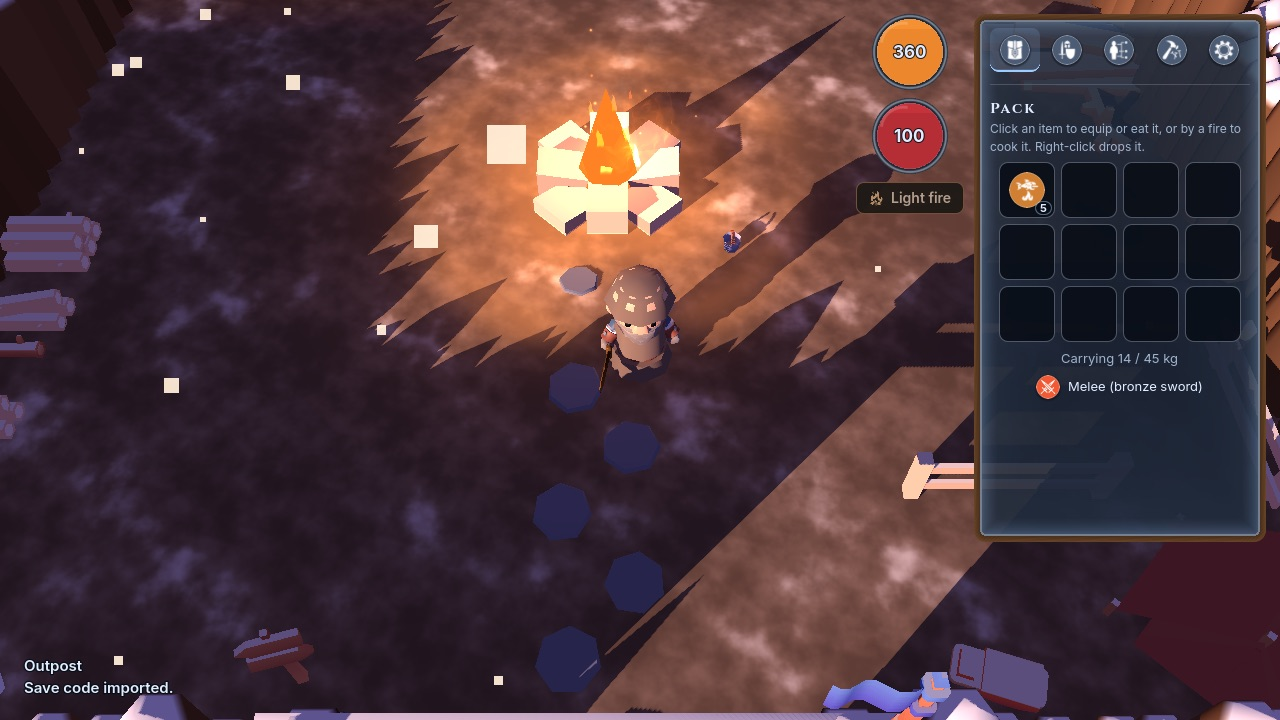
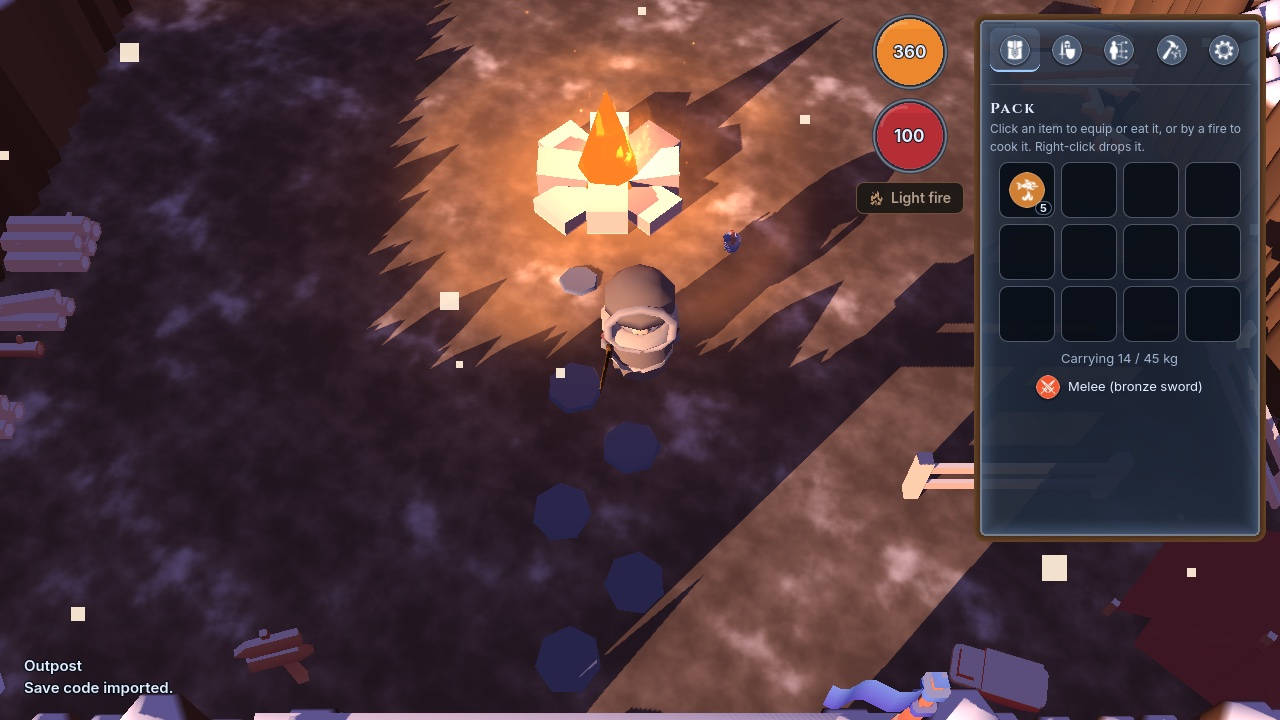
feat: fur looks like fur on the character (#143) (#154)
* feat: fur pieces draw a hood, a coat with a ruff and banded leggings

* feat: every armour look is drawn in the shader warm-up

* docs: the fur shapes on the character

* chore: fur set and mixed fur and metal gear shots

diff --git a/docs/simulation.md b/docs/simulation.md
@@ -390,7 +390,7 @@ The presentation draws the same solids and objects (as props, `scenes/props.gd`)
 - `returned`, `deposited_haul`, `levelled`, `crafted`, `built`, `ring_gate_opened`, `ring_two_reached`, `waystone_attuned` and `travelled` become a banner across the top (a `returned` banner reads "Home safe." plus what the pack holds, and adds "You can now build: ..." only when its `newly_affordable` list is not empty, and a `deposited_haul` banner names what was stored plus what stayed when the stash filled, `tests/test_bank_line.gd`); the rest become one line of status text. `saved` writes the browser save. `node_depleted` and `node_respawned` swap a node's prop between its full and spent look (a stump, a rock without ore, a frozen-over hole). `fire_lit` and `fire_out` add and remove a field fire.
 - New character sends `new_character` with the browser save it replaces. `hint` and `tip` show in the guide panel (`scenes/guide_panel.gd`), bottom left; its Hide hints button sends `set_hints` off and saves. The help panel (`scenes/help_panel.gd`) lists the controls and the loop, opens from the title screen's Controls button and the HUD's Help button, holds the ticking while open, and in a game has a Show hints switch.
 - Standing by a waystone shows the waystone panel (`scenes/waystone_panel.gd`), bottom centre: a Travel to the outpost button greyed out with the reason from `sim.travel_check()`, and the channel's progress while it runs. A waystone's runes glow once it is awake, and its label says asleep, visit to attune, or attuned.
-- Equipped weapon, helm, body, legs and tool are drawn on the character in their tier's material (`scenes/character_gear.gd`), each only while worn: the helm on the head (a dome, banded from bronze, with a nose guard from iron), the body on the chest (a vest, with pauldrons from bronze), the legs on the hips (a kilt, with greaves on the shins from iron). Fur pieces, which have no tier, take the base shapes in a fur colour.
+- Equipped weapon, helm, body, legs and tool are drawn on the character in their tier's material (`scenes/character_gear.gd`), each only while worn: the helm on the head (a dome, banded from bronze, with a nose guard from iron), the body on the chest (a vest, with pauldrons from bronze), the legs on the hips (a kilt, with greaves on the shins from iron). Fur pieces, which have no tier, have their own shapes in a fur colour with a pale trim: a rounded hood framing the face, a coat with a thick collar ruff, and leggings with a fur band at each shin. One of every armour look, metal and fur, is drawn in the shader warm-up behind the title screen.
 - Props come from the CC0 Kenney Nature and Survival kits (`assets/models/`, credited in `docs/assets/CREDITS.md`), snow-capped by one shader (`scenes/shaders/snow_cap.gdshader`).
 - What the world looks like at a point comes from the ring-look table (`scenes/ring_look.gd`): one look per ring and one for the outpost (palette tint, sky, fog colour and distance, sun and ambient colour, snow density, wind, aurora, ambience cue), resolved through the world definition's region lookup and blended across an 8 m band at every boundary. Each ring out is colder and darker. Lighting, fog, snowfall and dressing read it and keep no per-ring constants of their own. The atmosphere node (`scenes/atmosphere.gd`) applies the look at the character's position every frame: a fixed low dusk sun with long blue-violet shadows (there is no day-night cycle), depth fog, snow falling around the camera whose density and wind follow the look, a screen-space colour grade (`scenes/shaders/colour_grade.gdshader`) and, in the outer rings, a faint aurora band across the top of the view. Every fire lays a warm pool on the snow out to the edge of its warmth; only the four fires nearest the character carry a dynamic light. All of it runs on frame time and changes no rule.
 - Sound (`scenes/audio_director.gd`) only listens. `scenes/audio_cues.gd` maps each event to its cue keys and each key to clips under `assets/audio/`: telegraphs and stance changes sound a cue per style (a blade drawn for melee, a bow creaking for ranged, lower and louder when heavy), blows thud, ranged blows and misses twang, `gathered` splashes for a fish, `cooked` and `crafted` clink, `built` sounds the upgrade's material (an axe for timber, a pick for stone, a hammer for iron, declared per upgrade in `scenes/yard_look.gd`; a shared built cue for an upgrade with none) under the rising level stinger, and `died`, `returned` and `levelled` play stingers. Footsteps follow the character's drawn movement; an axe or pickaxe strikes about once a second from the gathering `interacted` until `activity_stopped`; a wind-and-snow bed and the music follow `region_changed` (a quiet bed inside the walls, a tenser one outside); every fire crackles where it burns. Nothing plays before the first click or key press, which is when browsers allow audio. Volume, music volume and mute live in `user://frostmark_settings.cfg` (`scenes/audio_settings.gd`), set from the side panel's Settings tab, which also credits every clip and icon. Interface size (90, 100 or 125 %, applied as the window's content scale) and reduced motion live in the same file under their own section (`scenes/ui_settings.gd`); snowfall, screen shake and the frost vignette read `UiSettings.reduced_motion_on()` and change no rule.
